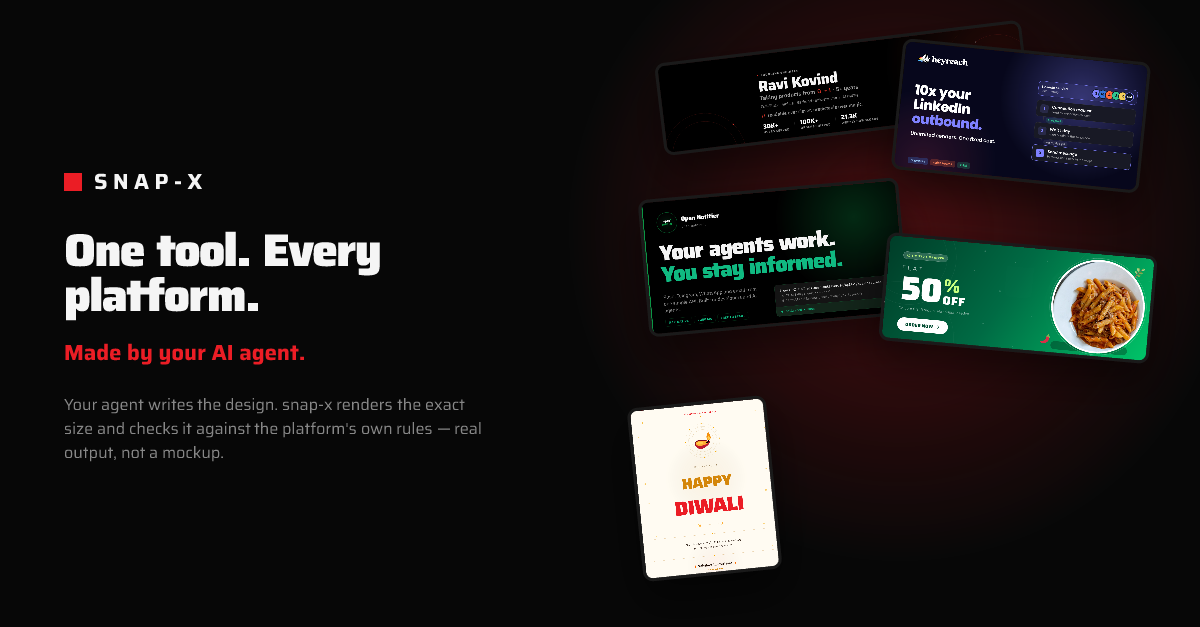
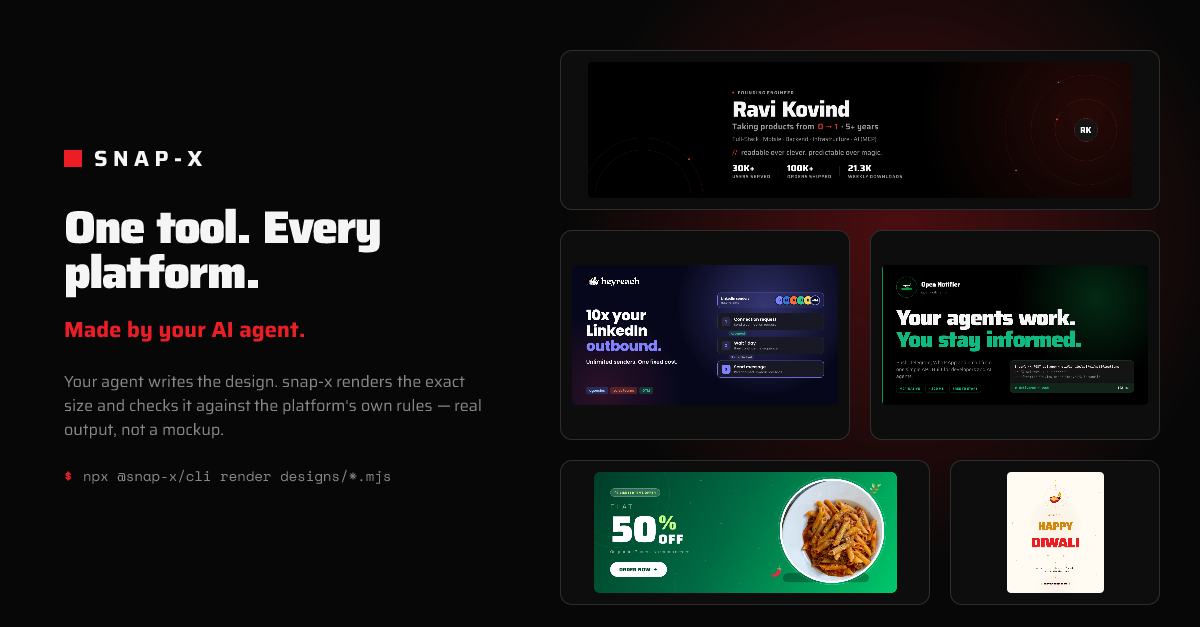
revise(examples): li-announce - clean grid layout, add 4:5 portrait, Saira+Space Mono
Per feedback: the rotated/overlapping photo fan looked messy. Replaced
with a frame() helper - fixed, bordered, non-rotated cards sized to
fit each photo's real aspect ratio (the same letterboxed pattern the
website's own cards use), arranged in a clean 3-row grid grouped by
shape (ultra-wide cover gets its own row, the two ~16:9 cards pair up,
wide+portrait pair up).

Added li-announce-portrait.mjs (1080x1350, 4:5 - LinkedIn's own
recommendation for feed engagement) sharing the same composition
builder (_li-announce.mjs) and asset set as the 1200x627 version,
following the cover.mjs/cover-2x.mjs shared-helper pattern already
used in examples/ravikovind.

Switched to Saira + Space Mono (matching the current site), declared
locally in _li-announce.mjs rather than in _brand.mjs, so the original
5-file dogfood set's own JetBrains-Mono assets are untouched.

diff --git a/examples/snap-x/snap-plan.md b/examples/snap-x/snap-plan.md
@@ -33,15 +33,41 @@ Lessons from the first render: sizes are set so headline lines never wrap (`whit
 
 **Placement check (`snap-x guides`)**: `cover.mjs` (1500×500) and `thumbnail.mjs` (1280×720) exact-match real platform formats (`x-header`, `youtube-thumbnail`), so `snap-x guides` draws their real avoid/safe zones. `thumbnail.mjs` is clean — nothing sits near the duration-badge zone. `cover.mjs` originally centered its headline+command column, which put it inside `x-header`'s recommended "text lives here" safe box only partially — the column starts at x=190 (padding), clear of the hard avoid zone (the profile-photo circle, right edge at x≈375) with margin, but left of the safe box's recommended x≥430 start. Since this banner is dual-purpose (X header *and* generic GitHub/site banner, per `share-copy.txt`), and pushing the column fully past x=430 crowded the pillar column off the right edge at this width, the column was nudged right just enough to clear the hard avoid zone rather than fully honoring the softer safe-box recommendation. Worth another pass if this file is ever used *only* as an X header.
 
-## li-announce.mjs (added later — a launch-post asset, not part of the original 5-file dogfood set)
+## li-announce.mjs / li-announce-portrait.mjs (added later — launch-post assets, not part of the original 5-file dogfood set)
 
-A 1200×627 (`linkedin-post` format) collage for sharing the project itself: the same headline/pitch
-column style as the rest of the pack (reuses `_brand.mjs`'s `box`/`txt`/`H`/`brand`/`glow`/`root`),
-with five real outputs from other example packs — `examples/ravikovind/ravi-kovind-linkedin-cover.png`
+Two orientations of the same LinkedIn launch-post collage, sharing one composition builder
+(`designs/_li-announce.mjs`, following the `cover.mjs`/`cover-2x.mjs` pattern already used in
+`examples/ravikovind` — a `_`-prefixed helper exporting one function per variant, plus thin entry
+files that just pick which one to call). Both reuse `_brand.mjs`'s `box`/`txt`/`H`/`brand`/`glow`/`root`
+and the same five real outputs from other example packs — `examples/ravikovind/ravi-kovind-linkedin-cover.png`
 (ultra-wide, black/red), `examples/heyreach/og.png` (landscape, purple/dark), `examples/open-notifier/og.png`
 (landscape, black/green), `examples/food-app-banners/banner-2-teal.png` (wide, teal),
 `examples/diwali-poster/diwali-poster.png` (portrait, cream/gold) — copied into this pack's own
-`assets/` (see `assets/SOURCES.md`) and collaged on the right at slight rotation angles, deliberately
-spanning different aspect ratios and palettes as proof this is real, varied output rather than a
-mockup. `H()` forces `whiteSpace: nowrap`, so the headline is manually split across two `txt()` calls
-rather than left to wrap, matching how every other file in this pack handles line breaks.
+`assets/` (see `assets/SOURCES.md`), deliberately spanning different aspect ratios and palettes as
+proof this is real, varied output rather than a mockup.
+
+**Fonts:** Saira + Space Mono, declared locally in `_li-announce.mjs` rather than imported from
+`_brand.mjs` (which still uses JetBrains Mono for the original 5-file dogfood set) — this matches
+the current website's font choice without touching that pack's own already-published assets. Space
+Mono gets a real use: a small `$ npx @snap-x/cli render designs/*.mjs` command line under the pitch
+text, the same idea as `_brand.mjs`'s own `command()` helper, just in the new mono font.
+
+**Layout, revision 2:** the first pass fanned the five photos out overlapping and rotated at
+different angles — feedback was that it looked messy, not professional. Replaced with a `frame()`
+helper: a fixed, bordered, non-rotated card per photo (the same "letterboxed thumbnail" pattern the
+website's own format/template/example cards already use), sized so the real image sits centered at
+its true aspect ratio inside — never cropped, never stretched. The five cards are grouped into a
+clean 3-row grid: the ultra-wide ravikovind cover gets its own full-width row (a square cell would
+leave it a tiny sliver surrounded by empty frame), then the two ~16:9 cards (heyreach, open-notifier)
+side by side, then the wide food-banner paired with the portrait diwali poster.
+
+- `li-announce.mjs` → 1200×627 (`linkedin-post` format): text left, the 3-row grid right.
+- `li-announce-portrait.mjs` → 1080×1350, 4:5 (`instagram-post` format): LinkedIn's own
+  recommendation for feed posts is a 4:5 portrait — it takes more space in a mobile feed than the
+  1200×627 link-preview shape and reportedly drives more engagement. Text moves to a top block; the
+  same 3-row grid restacks to span the full width below it, since the landscape composition's
+  side-by-side column arrangement doesn't make sense at this aspect ratio.
+
+`H()` forces `whiteSpace: nowrap`, so the headline is manually split across two `txt()` calls in
+both orientations rather than left to wrap, matching how every other file in this pack handles
+line breaks.
